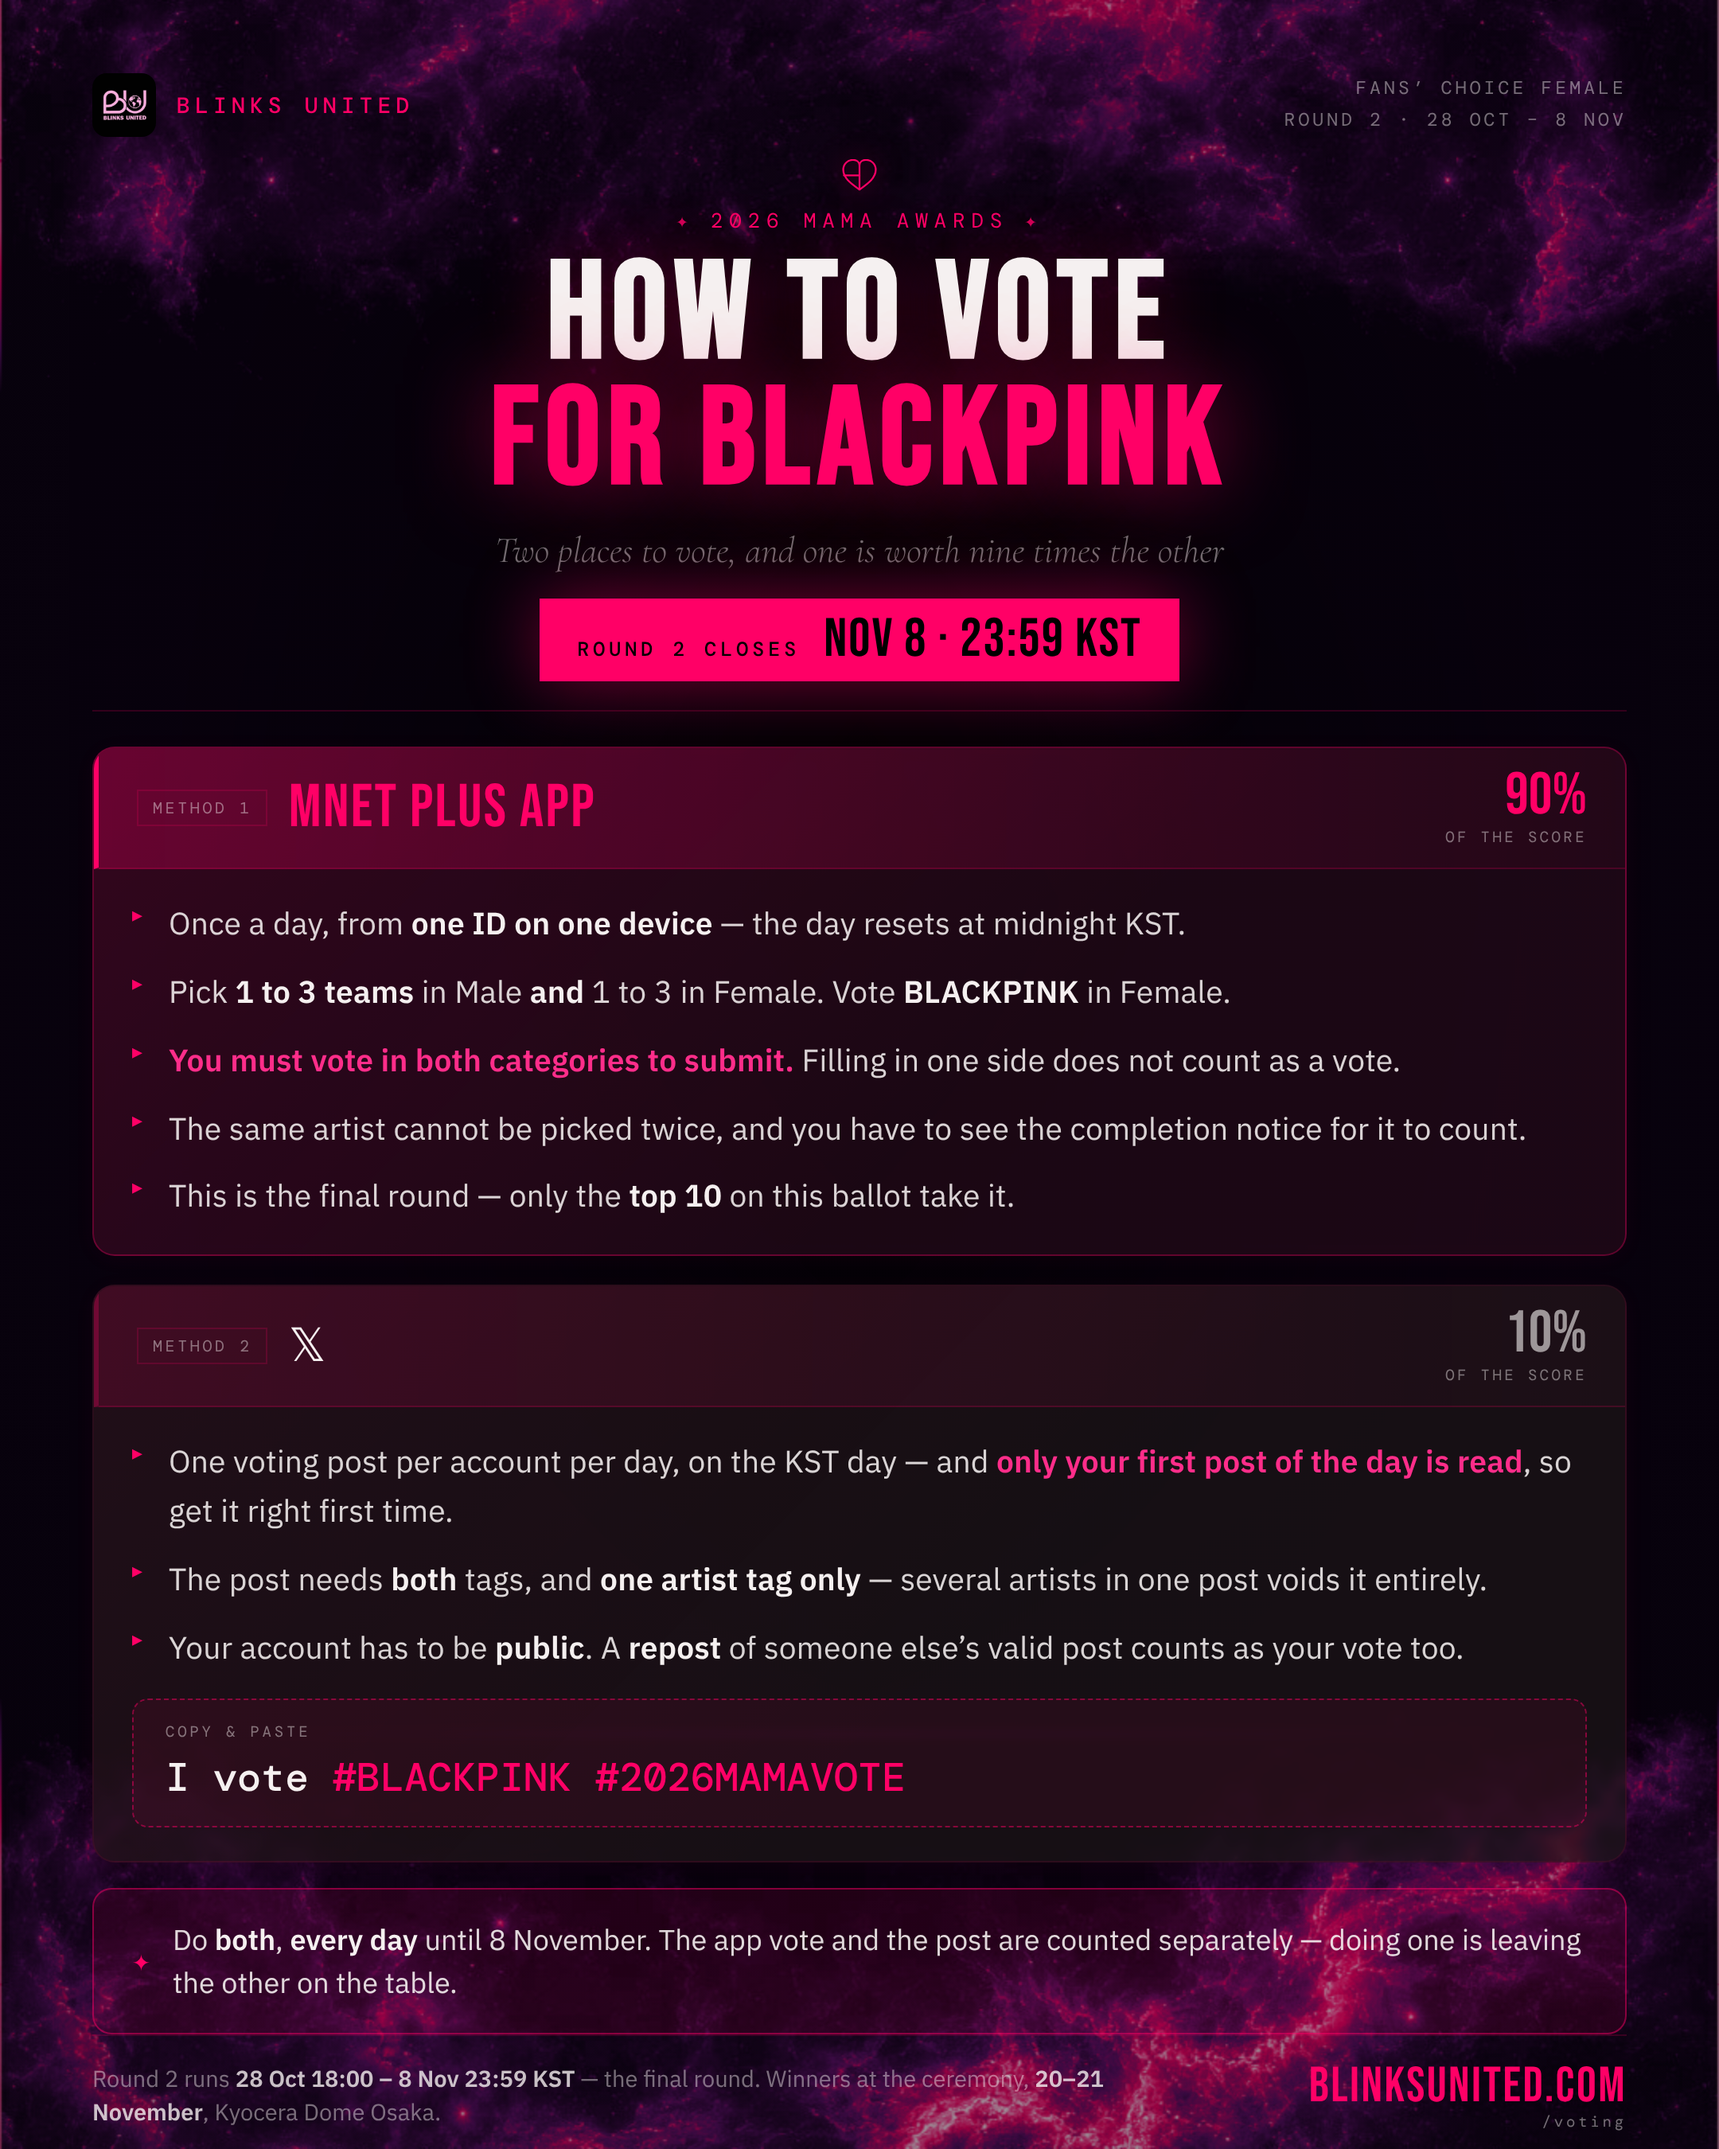
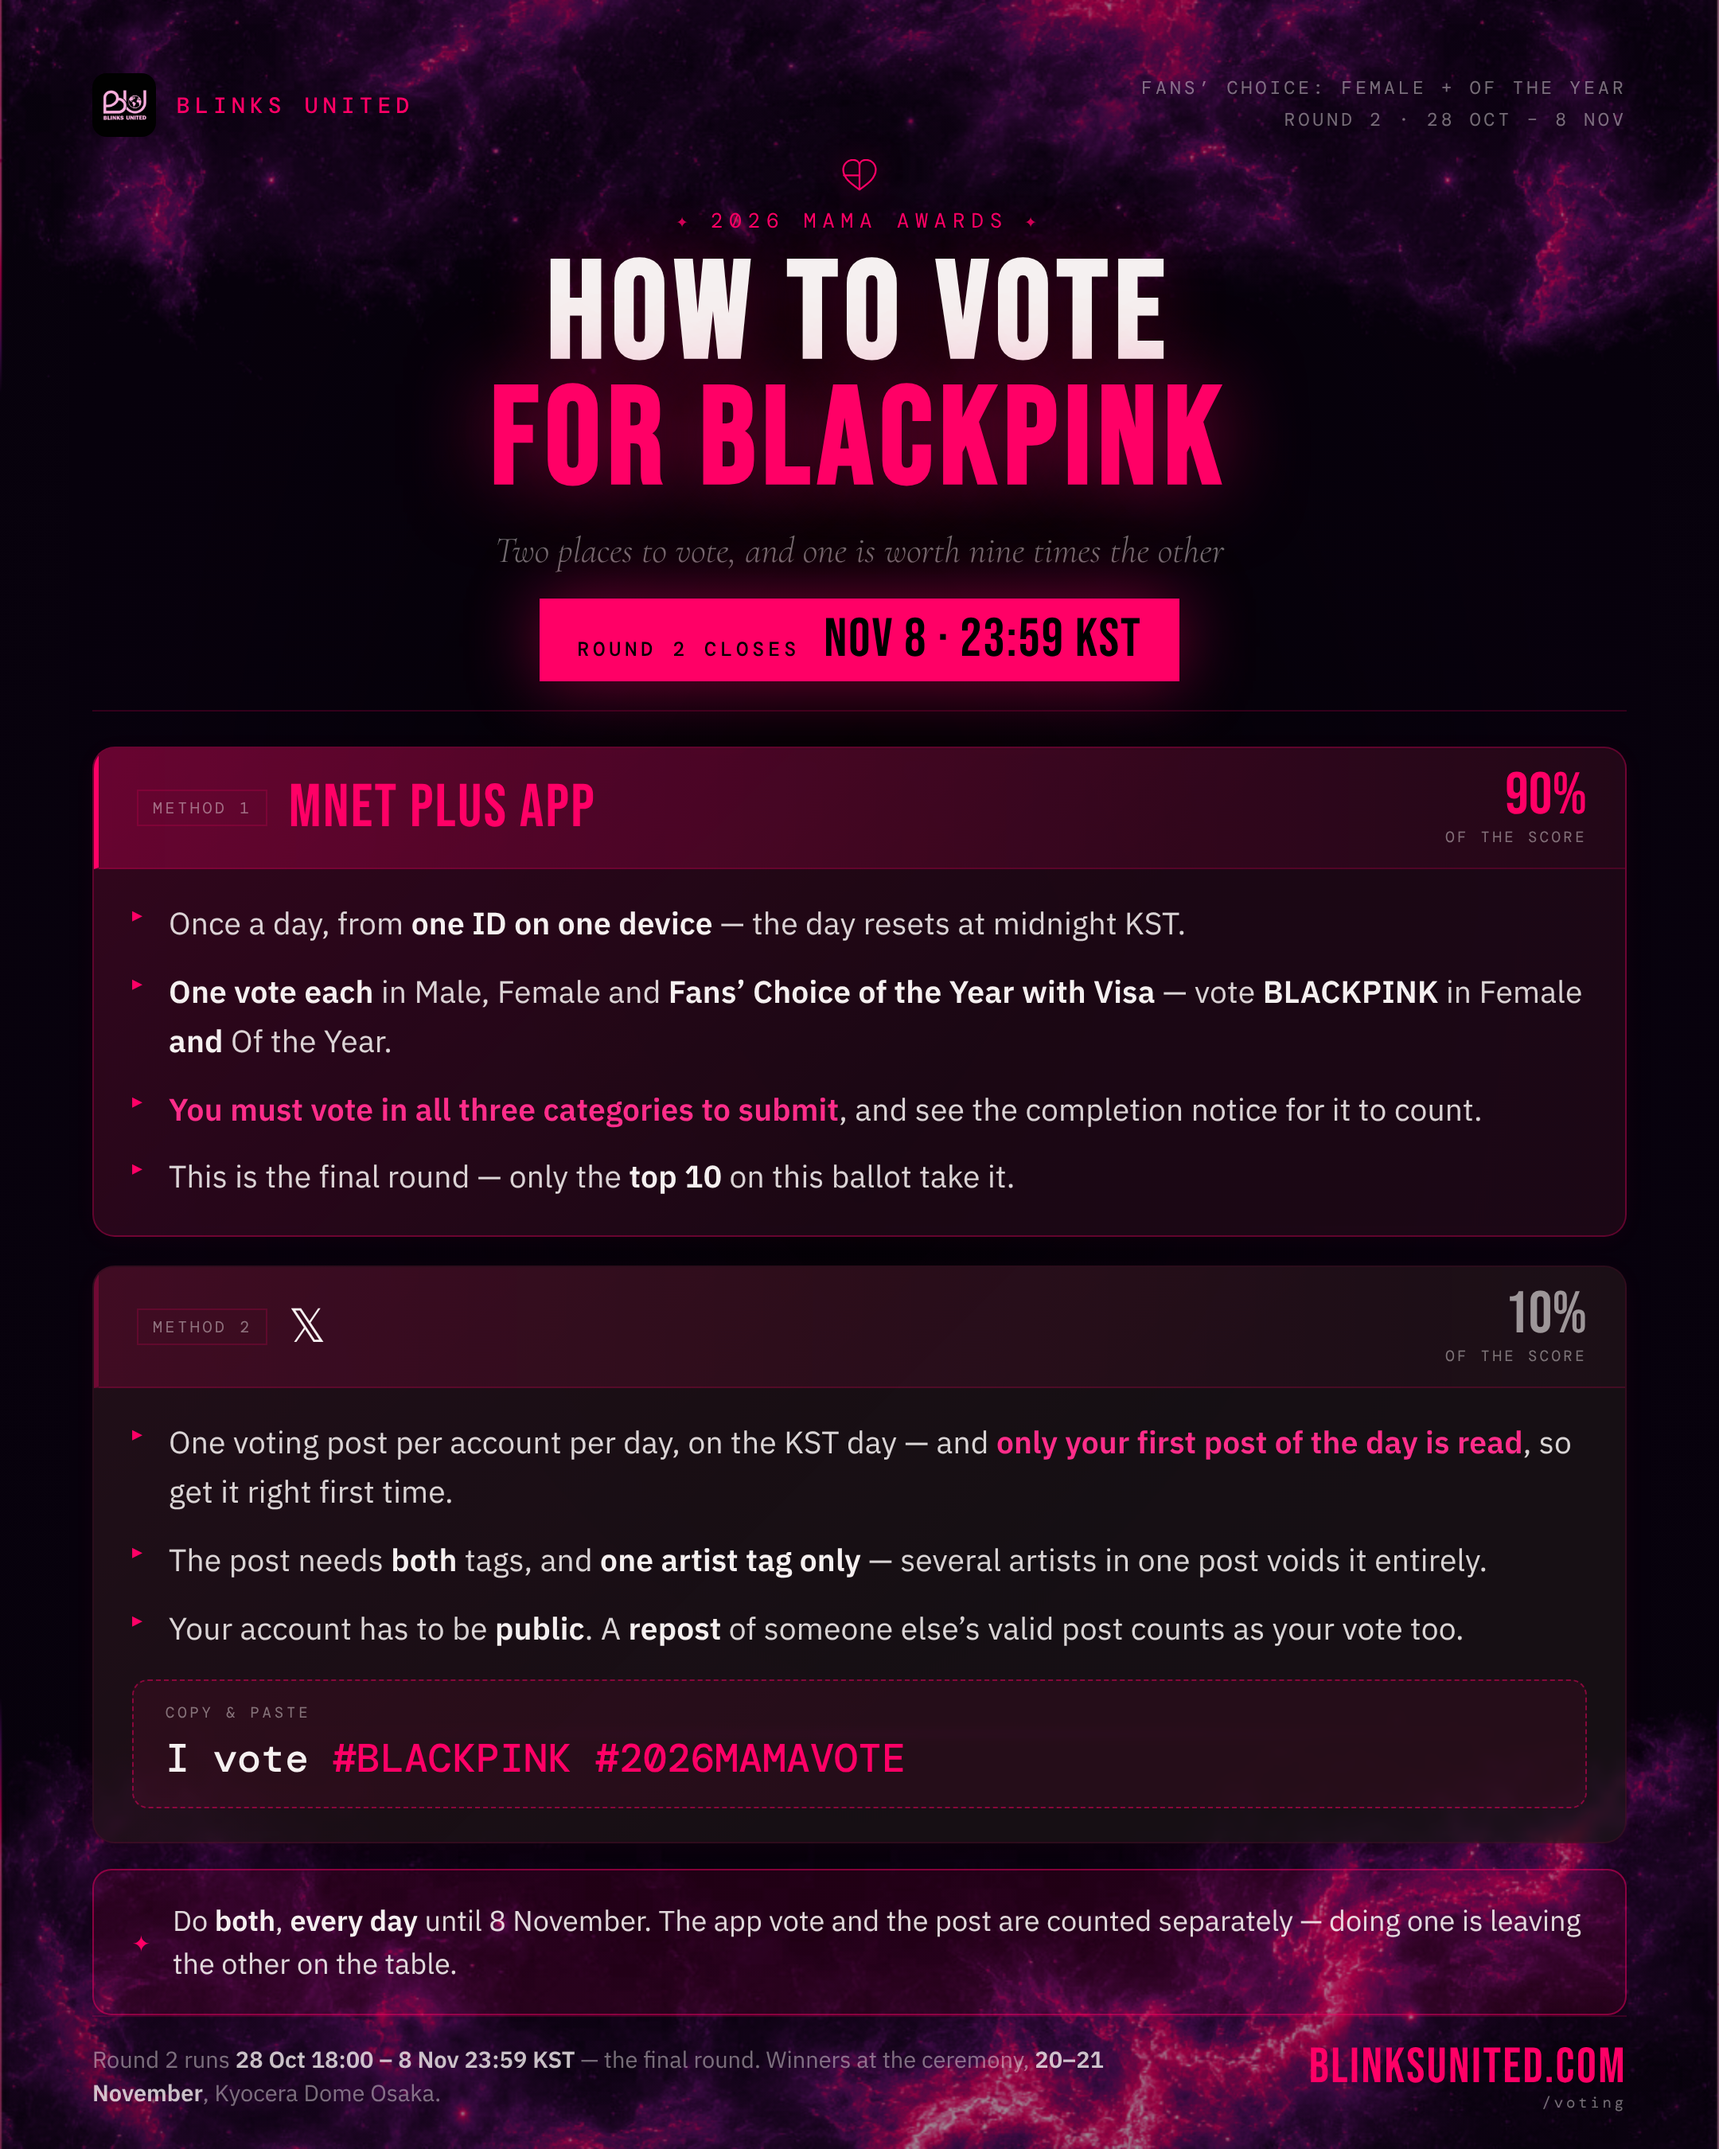
MAMA: round 2 ballot is three categories, one vote each
Round 2 opened as "FANS' CHOICE 2nd VOTE (MALE & FEMALE) & FANS' CHOICE OF
THE YEAR with VISA" — one session, three picks, one vote in each. Round 1's
ballot took 1 to 3 teams across two categories, and that is what every copy
on the site still described.

This is the more expensive half of the round rollover to get wrong. A reader
who believes the old rule hunts for a second and third pick the ballot does
not offer, or fills in two categories and never submits at all.

Eight copies, all of them by hand, none derived:
- index.html: the campaign alert, the campaign rules bullet, and the two
  Mnet Plus lines in the MAMA rules panel.
- mama-guide.html: the poster's method-1 bullets and its header badge, now
  "Fans' Choice: Female + Of the Year" since BLACKPINK is in two.
- the shareable caption, whose three byte-identical copies live in
  index.html and twice in mama-guide.html.
- mama-guide.png re-rendered. The longer bullets pushed the footer out of
  the 1350 frame; the submit rule and the completion notice are now one
  bullet, which the render script's own overflow check confirmed fits.

The caption went to 308 weighted characters and X truncates at 280 for
accounts without a subscription — the line it would have cut is the deadline.
Trimmed to 274 by dropping the year the #2026MAMAVOTE tag already carries.

"The same artist cannot be picked twice" is gone rather than reworded: it was
a consequence of picking 1 to 3, and with one vote per category it describes
[…]

diff --git a/index.html b/index.html
@@ -9822,9 +9822,9 @@ function mamaShareText() {
   return [
     MAMA_TWEET,
     '',
-    `🗳 2026 MAMA Fans’ Choice — round ${to.n}, how it works:`,
-    '📱 Mnet Plus = 90% · once a day, 1–3 in Male AND Female (both, or it won’t submit)',
-    '𝕏 = 10% · one post a day, and only your FIRST one counts',
+    `🗳 MAMA Fans’ Choice — round ${to.n}, how it works:`,
+    '📱 Mnet Plus = 90% · daily, 1 vote each in Male, Female + Of the Year (all 3 or it won’t submit)',
+    '𝕏 = 10% · one post a day, only your FIRST counts',
     `⏰ Ends ${close}, 23:59 KST`,
     'blinksunited.com/voting',
   ].join('\n');
@@ -10003,9 +10003,9 @@ const VOTE_CAMPAIGNS = [
       return { handle: MAMA_X_HANDLE, text: MAMA_TWEET, url: mamaRepostUrl(), pinned: mamaHasPin(),
                own: 'https://x.com/intent/post?text=' + encodeURIComponent(MAMA_TWEET) };
     },
-    alert: '<b>Mnet Plus is 90% of this.</b> X is the other 10% — if you only do one thing, vote in the app, and remember a session does not submit until you have voted in <b>both</b> Male and Female.',
+    alert: '<b>Mnet Plus is 90% of this.</b> X is the other 10% — if you only do one thing, vote in the app, and remember a session does not submit until you have voted in <b>all three</b>: Male, Female and Fans’ Choice of the Year.',
     rules: [
-      '<b>Mnet Plus app — 90%.</b> Once a day from one ID on one device. Pick <b>1 to 3 teams</b> in Male <i>and</i> 1 to 3 in Female; the same artist cannot be picked twice, and nothing submits until both sides are filled in',
+      '<b>Mnet Plus app — 90%.</b> Once a day from one ID on one device. <b>One vote each</b> in Male, Female and <b>Fans’ Choice of the Year with Visa</b> — nothing submits until all three are filled in. Vote <b>BLACKPINK</b> in Female <i>and</i> in Fans’ Choice of the Year',
       '<b>X — 10%.</b> One post a day carrying <b>#2026MAMAVOTE</b> and <b>#BLACKPINK</b>. Only your <b>first</b> voting post of the day is read, so get it right first time — a repost of someone else’s valid post counts just the same',
       'Your X account has to be <b>public</b>, and a post naming several artists is <b>not counted at all</b>',
       '<b>Round 2 is open now</b> — 28 Oct 18:00 – 8 Nov 23:59 KST. This is the final round: only the <b>top 10</b> take it',
@@ -11019,8 +11019,8 @@ const MAMA_RULES = [
   ]},
   { head: 'On Mnet Plus — the other 90%', items: [
     'Once a day, from <b>one ID on one device</b>, on the KST day. It is worth <b>nine times</b> an X vote — if you only do one thing, do this one.',
-    '<b>You have to vote in both Male and Female to complete a session.</b> Filling in one side only does not submit a vote.',
-    'Each side takes <b>1 to 3 teams</b>, and the same artist cannot be picked twice.',
+    '<b>You have to vote in all three categories to complete a session.</b> Male, Female and Fans’ Choice of the Year with Visa — leaving any of them empty does not submit a vote.',
+    '<b>One vote in each</b>, not a list of three. Vote <b>BLACKPINK</b> in Female <i>and</i> again in Fans’ Choice of the Year — they are separate categories, and one does not spend the other.',
     'The artist’s official hashtag is listed on the voting page in the <b>Mnet Plus app</b> — that is the same list the X rule above points at.',
   ]},
   { head: 'Dates', items: [

diff --git a/mama-guide.html b/mama-guide.html
@@ -274,7 +274,7 @@
       <span>Blinks United</span>
     </div>
     <div class="top-right">
-      Fans’ Choice Female<br>Round 2 · 28 Oct – 8 Nov
+      Fans’ Choice: Female + Of the Year<br>Round 2 · 28 Oct – 8 Nov
     </div>
   </div>
 
@@ -302,9 +302,8 @@
       <div class="method-body">
         <ul>
           <li>Once a day, from <b>one ID on one device</b> — the day resets at midnight KST.</li>
-          <li>Pick <b>1 to 3 teams</b> in Male <b>and</b> 1 to 3 in Female. Vote <b>BLACKPINK</b> in Female.</li>
-          <li><span class="warn">You must vote in both categories to submit.</span> Filling in one side does not count as a vote.</li>
-          <li>The same artist cannot be picked twice, and you have to see the completion notice for it to count.</li>
+          <li><b>One vote each</b> in Male, Female and <b>Fans’ Choice of the Year with Visa</b> — vote <b>BLACKPINK</b> in Female <b>and</b> Of the Year.</li>
+          <li><span class="warn">You must vote in all three categories to submit</span>, and see the completion notice for it to count.</li>
           <li>This is the final round — only the <b>top 10</b> on this ballot take it.</li>
         </ul>
       </div>
@@ -365,9 +364,9 @@
      is re-checked whenever the poster is re-rendered for a new round. -->
 <script type="text/plain" id="caption-src">I vote #BLACKPINK #2026MAMAVOTE
 
-🗳 2026 MAMA Fans’ Choice — round 2, how it works:
-📱 Mnet Plus = 90% · once a day, 1–3 in Male AND Female (both, or it won’t submit)
-𝕏 = 10% · one post a day, and only your FIRST one counts
+🗳 MAMA Fans’ Choice — round 2, how it works:
+📱 Mnet Plus = 90% · daily, 1 vote each in Male, Female + Of the Year (all 3 or it won’t submit)
+𝕏 = 10% · one post a day, only your FIRST counts
 ⏰ Ends 8 Nov, 23:59 KST
 blinksunited.com/voting</script>
 <script>
@@ -391,9 +390,9 @@ blinksunited.com/voting</script>
      enough on a phone that "it just did nothing" is a real outcome. -->
 <pre id="caption-fallback" class="caption-fallback" hidden>I vote #BLACKPINK #2026MAMAVOTE
 
-🗳 2026 MAMA Fans’ Choice — round 2, how it works:
-📱 Mnet Plus = 90% · once a day, 1–3 in Male AND Female (both, or it won’t submit)
-𝕏 = 10% · one post a day, and only your FIRST one counts
+🗳 MAMA Fans’ Choice — round 2, how it works:
+📱 Mnet Plus = 90% · daily, 1 vote each in Male, Female + Of the Year (all 3 or it won’t submit)
+𝕏 = 10% · one post a day, only your FIRST counts
 ⏰ Ends 8 Nov, 23:59 KST
 blinksunited.com/voting</pre>
 
